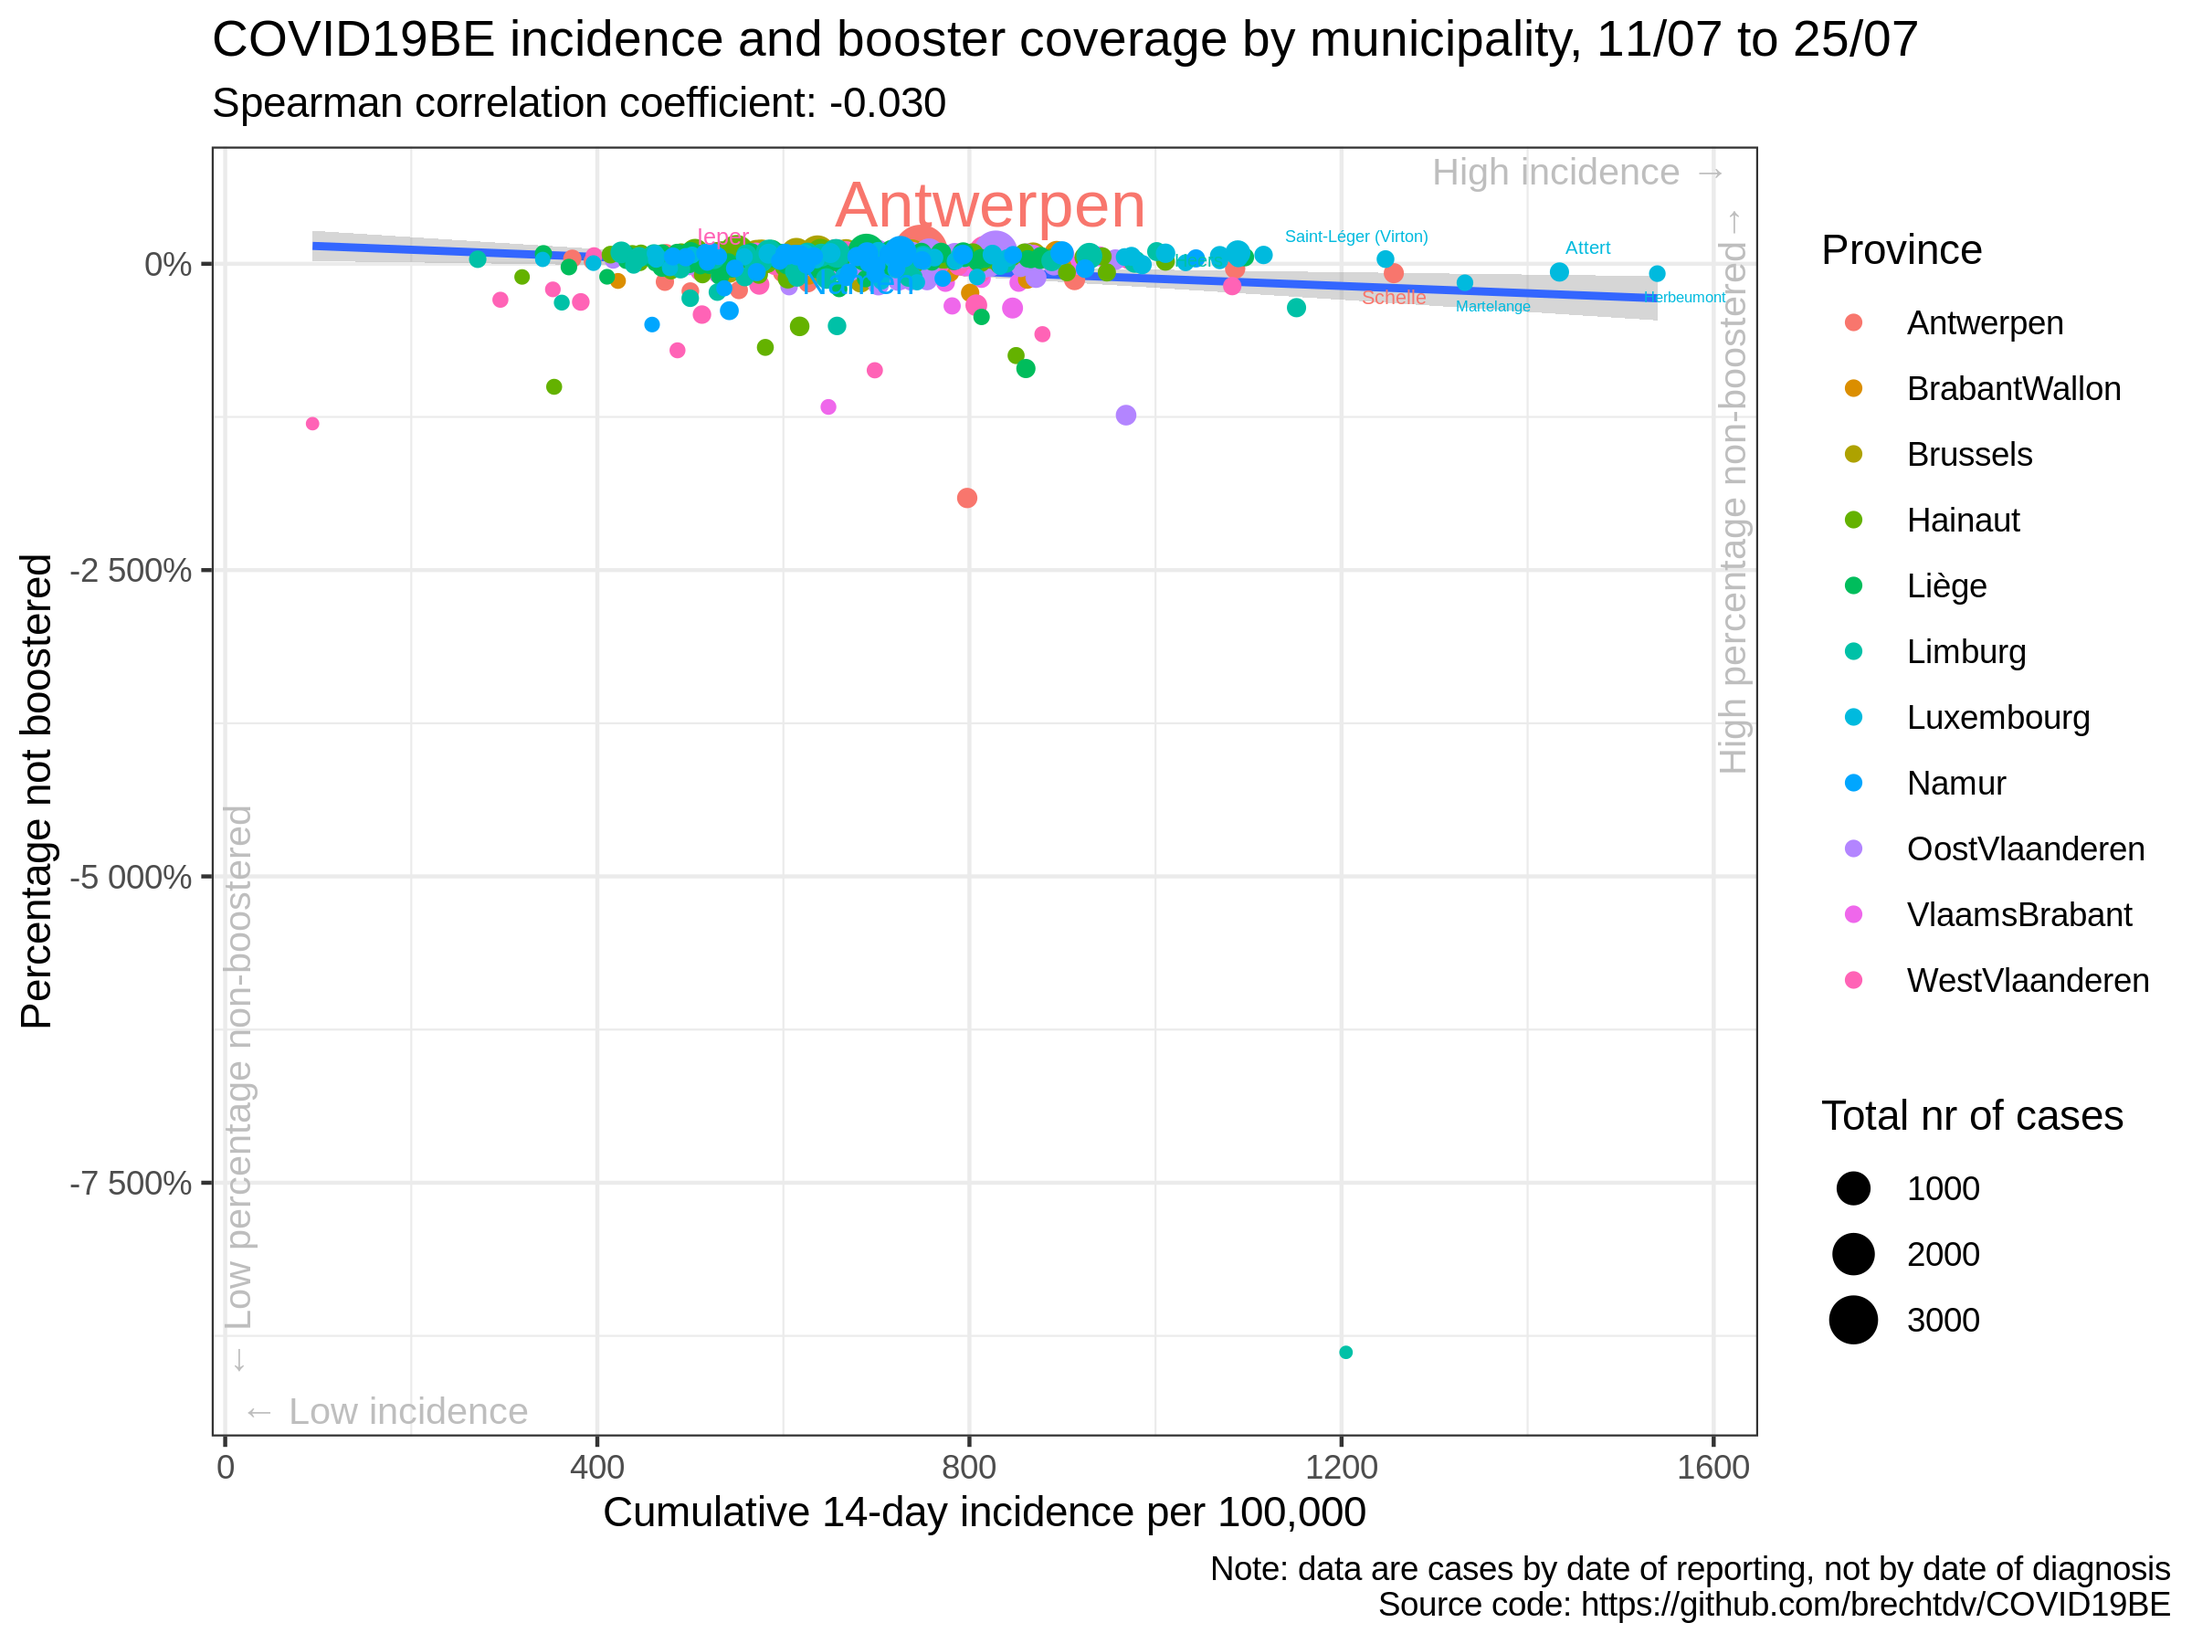
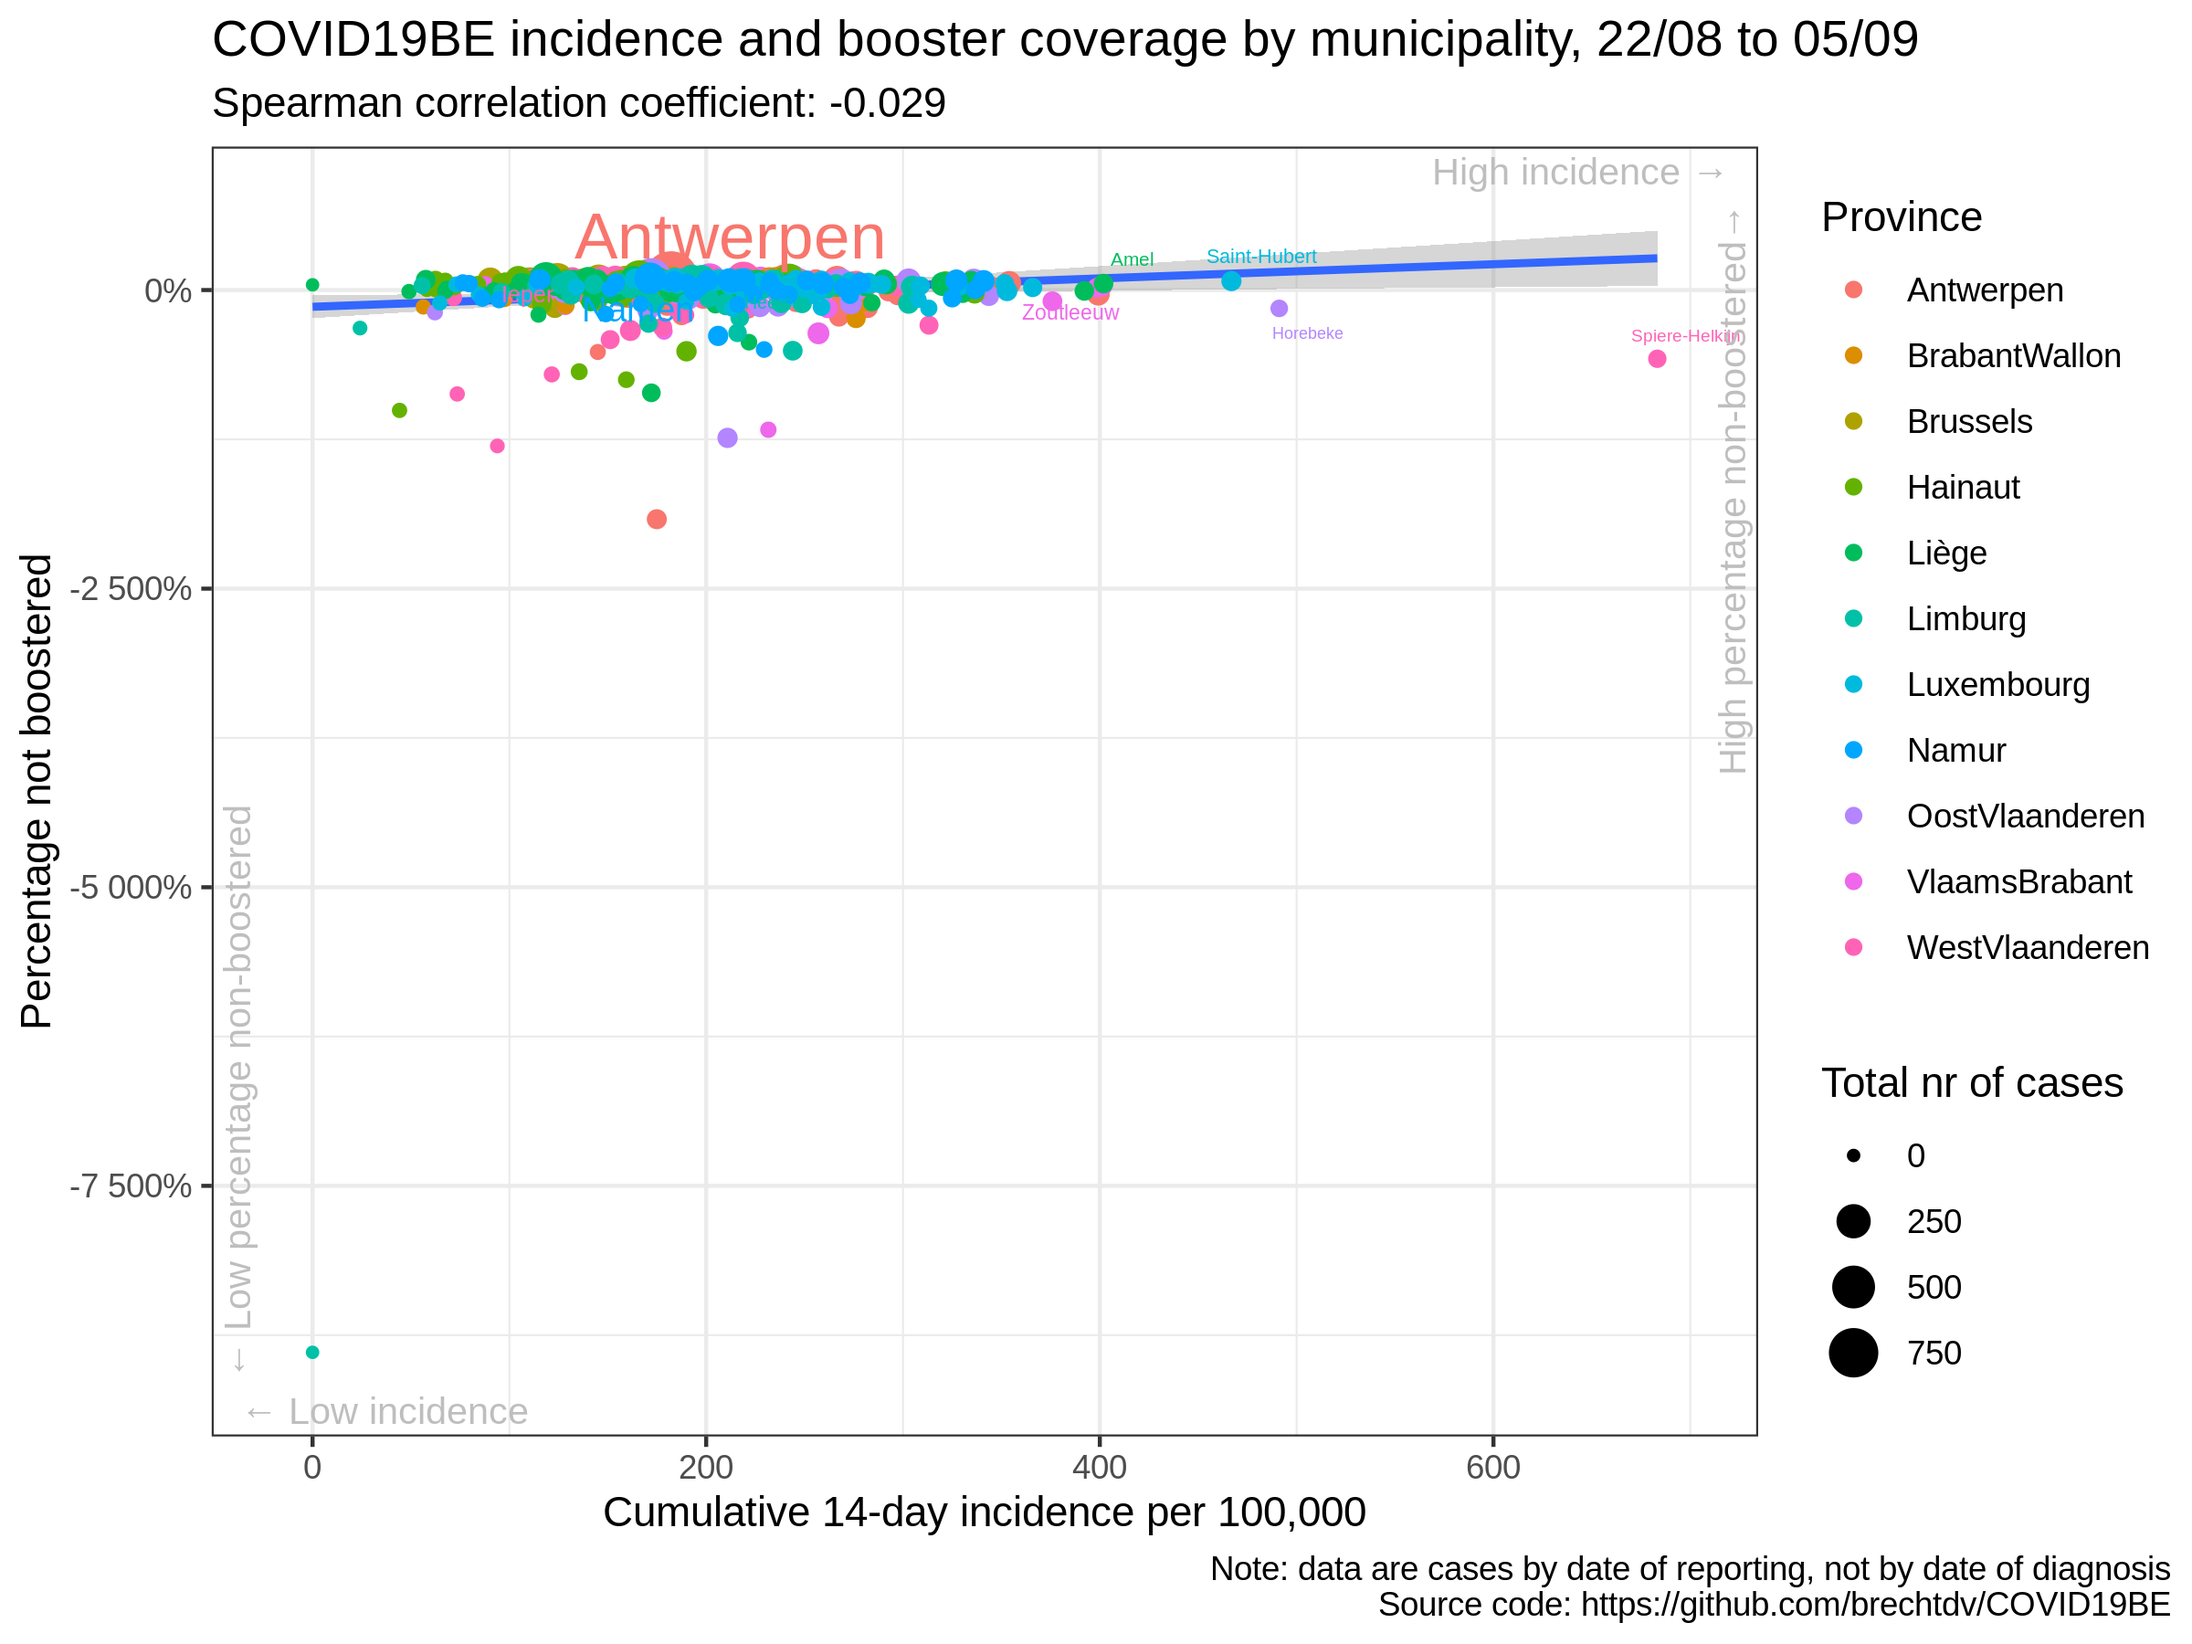
update situation

diff --git a/vaccination/README.md b/vaccination/README.md
@@ -17,35 +17,35 @@
 
 |                | estimate.rho | p.value |
 | :------------- | -----------: | ------: |
-| Antwerpen      |      \-0.075 |   0.537 |
-| BrabantWallon  |        0.023 |   0.909 |
-| Brussels       |        0.105 |   0.667 |
-| Hainaut        |      \-0.159 |   0.191 |
-| Liège          |        0.005 |   0.965 |
-| Limburg        |      \-0.062 |   0.694 |
-| Luxembourg     |      \-0.171 |   0.266 |
-| Namur          |        0.116 |   0.491 |
-| OostVlaanderen |        0.288 |   0.026 |
-| VlaamsBrabant  |      \-0.072 |   0.568 |
-| WestVlaanderen |        0.098 |   0.440 |
-| Belgium        |      \-0.025 |   0.545 |
+| Antwerpen      |        0.019 |   0.876 |
+| BrabantWallon  |        0.274 |   0.167 |
+| Brussels       |        0.042 |   0.865 |
+| Hainaut        |        0.067 |   0.586 |
+| Liège          |        0.012 |   0.911 |
+| Limburg        |      \-0.052 |   0.742 |
+| Luxembourg     |      \-0.111 |   0.474 |
+| Namur          |      \-0.021 |   0.904 |
+| OostVlaanderen |      \-0.035 |   0.788 |
+| VlaamsBrabant  |      \-0.111 |   0.379 |
+| WestVlaanderen |        0.054 |   0.671 |
+| Belgium        |      \-0.016 |   0.700 |
 
 ### Correlation cumulative incidence vs booster rate
 
 |                | estimate.rho | p.value |
 | :------------- | -----------: | ------: |
-| Antwerpen      |      \-0.067 |   0.583 |
-| BrabantWallon  |        0.013 |   0.950 |
-| Brussels       |        0.114 |   0.641 |
-| Hainaut        |      \-0.172 |   0.157 |
-| Liège          |        0.009 |   0.934 |
-| Limburg        |      \-0.066 |   0.679 |
-| Luxembourg     |      \-0.174 |   0.257 |
-| Namur          |        0.097 |   0.565 |
-| OostVlaanderen |        0.294 |   0.023 |
-| VlaamsBrabant  |      \-0.096 |   0.444 |
-| WestVlaanderen |        0.100 |   0.432 |
-| Belgium        |      \-0.030 |   0.473 |
+| Antwerpen      |        0.002 |   0.987 |
+| BrabantWallon  |        0.285 |   0.149 |
+| Brussels       |      \-0.007 |   0.980 |
+| Hainaut        |        0.054 |   0.657 |
+| Liège          |        0.023 |   0.838 |
+| Limburg        |      \-0.052 |   0.745 |
+| Luxembourg     |      \-0.095 |   0.539 |
+| Namur          |      \-0.025 |   0.884 |
+| OostVlaanderen |      \-0.028 |   0.833 |
+| VlaamsBrabant  |      \-0.133 |   0.291 |
+| WestVlaanderen |        0.058 |   0.650 |
+| Belgium        |      \-0.029 |   0.483 |
 
 ### Data source
 
